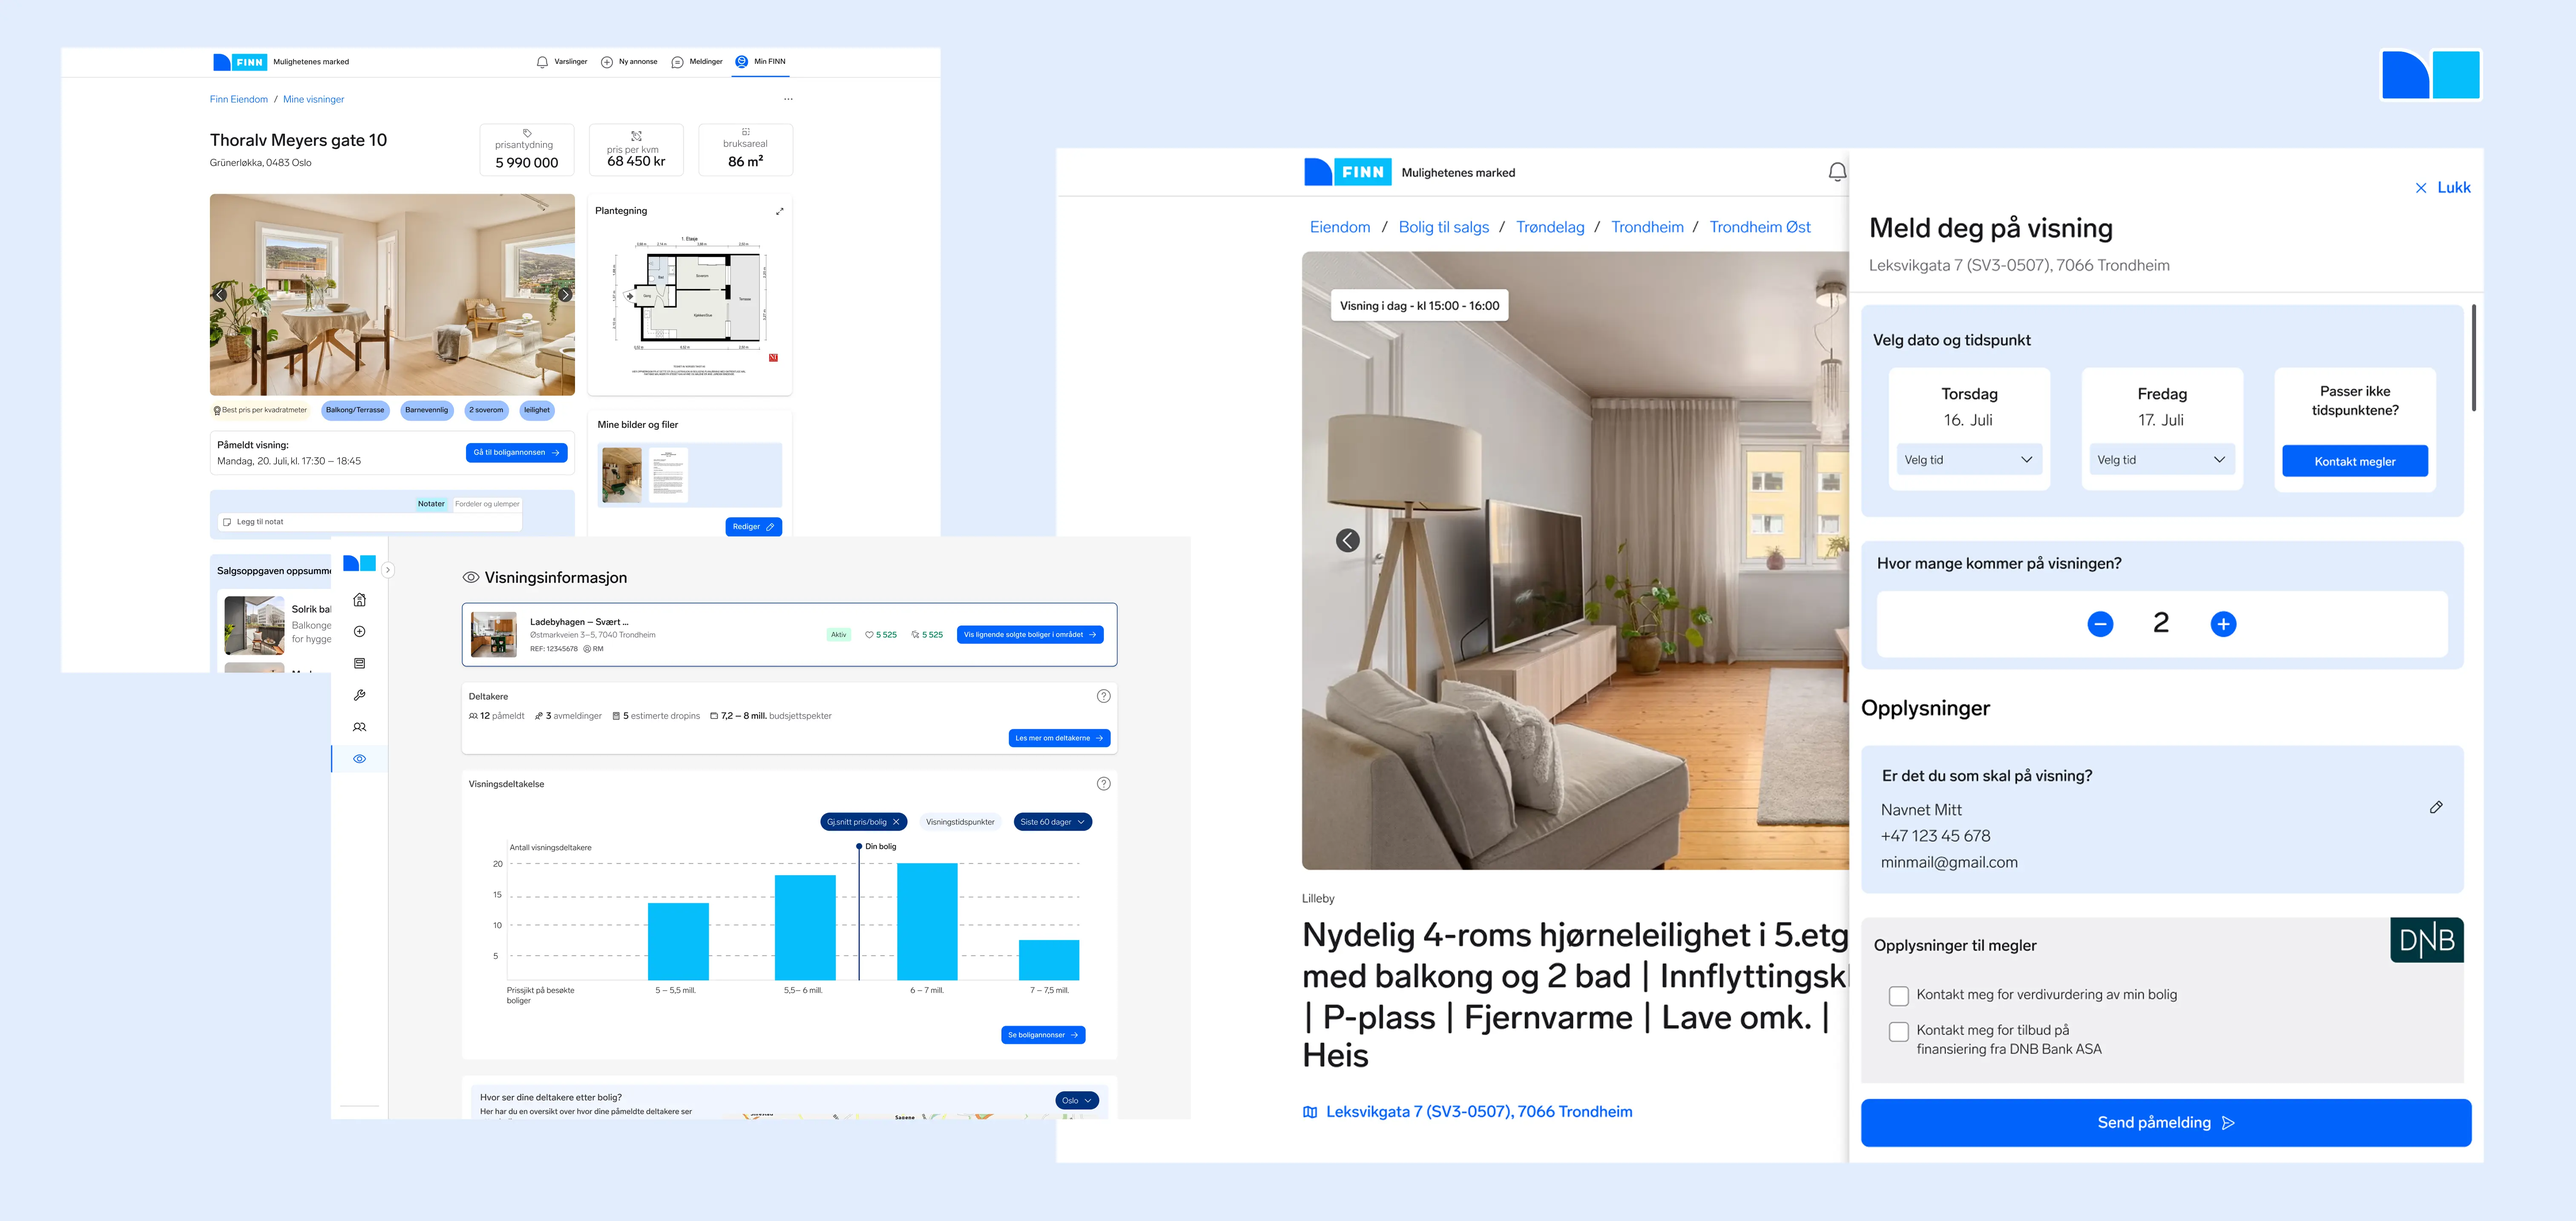
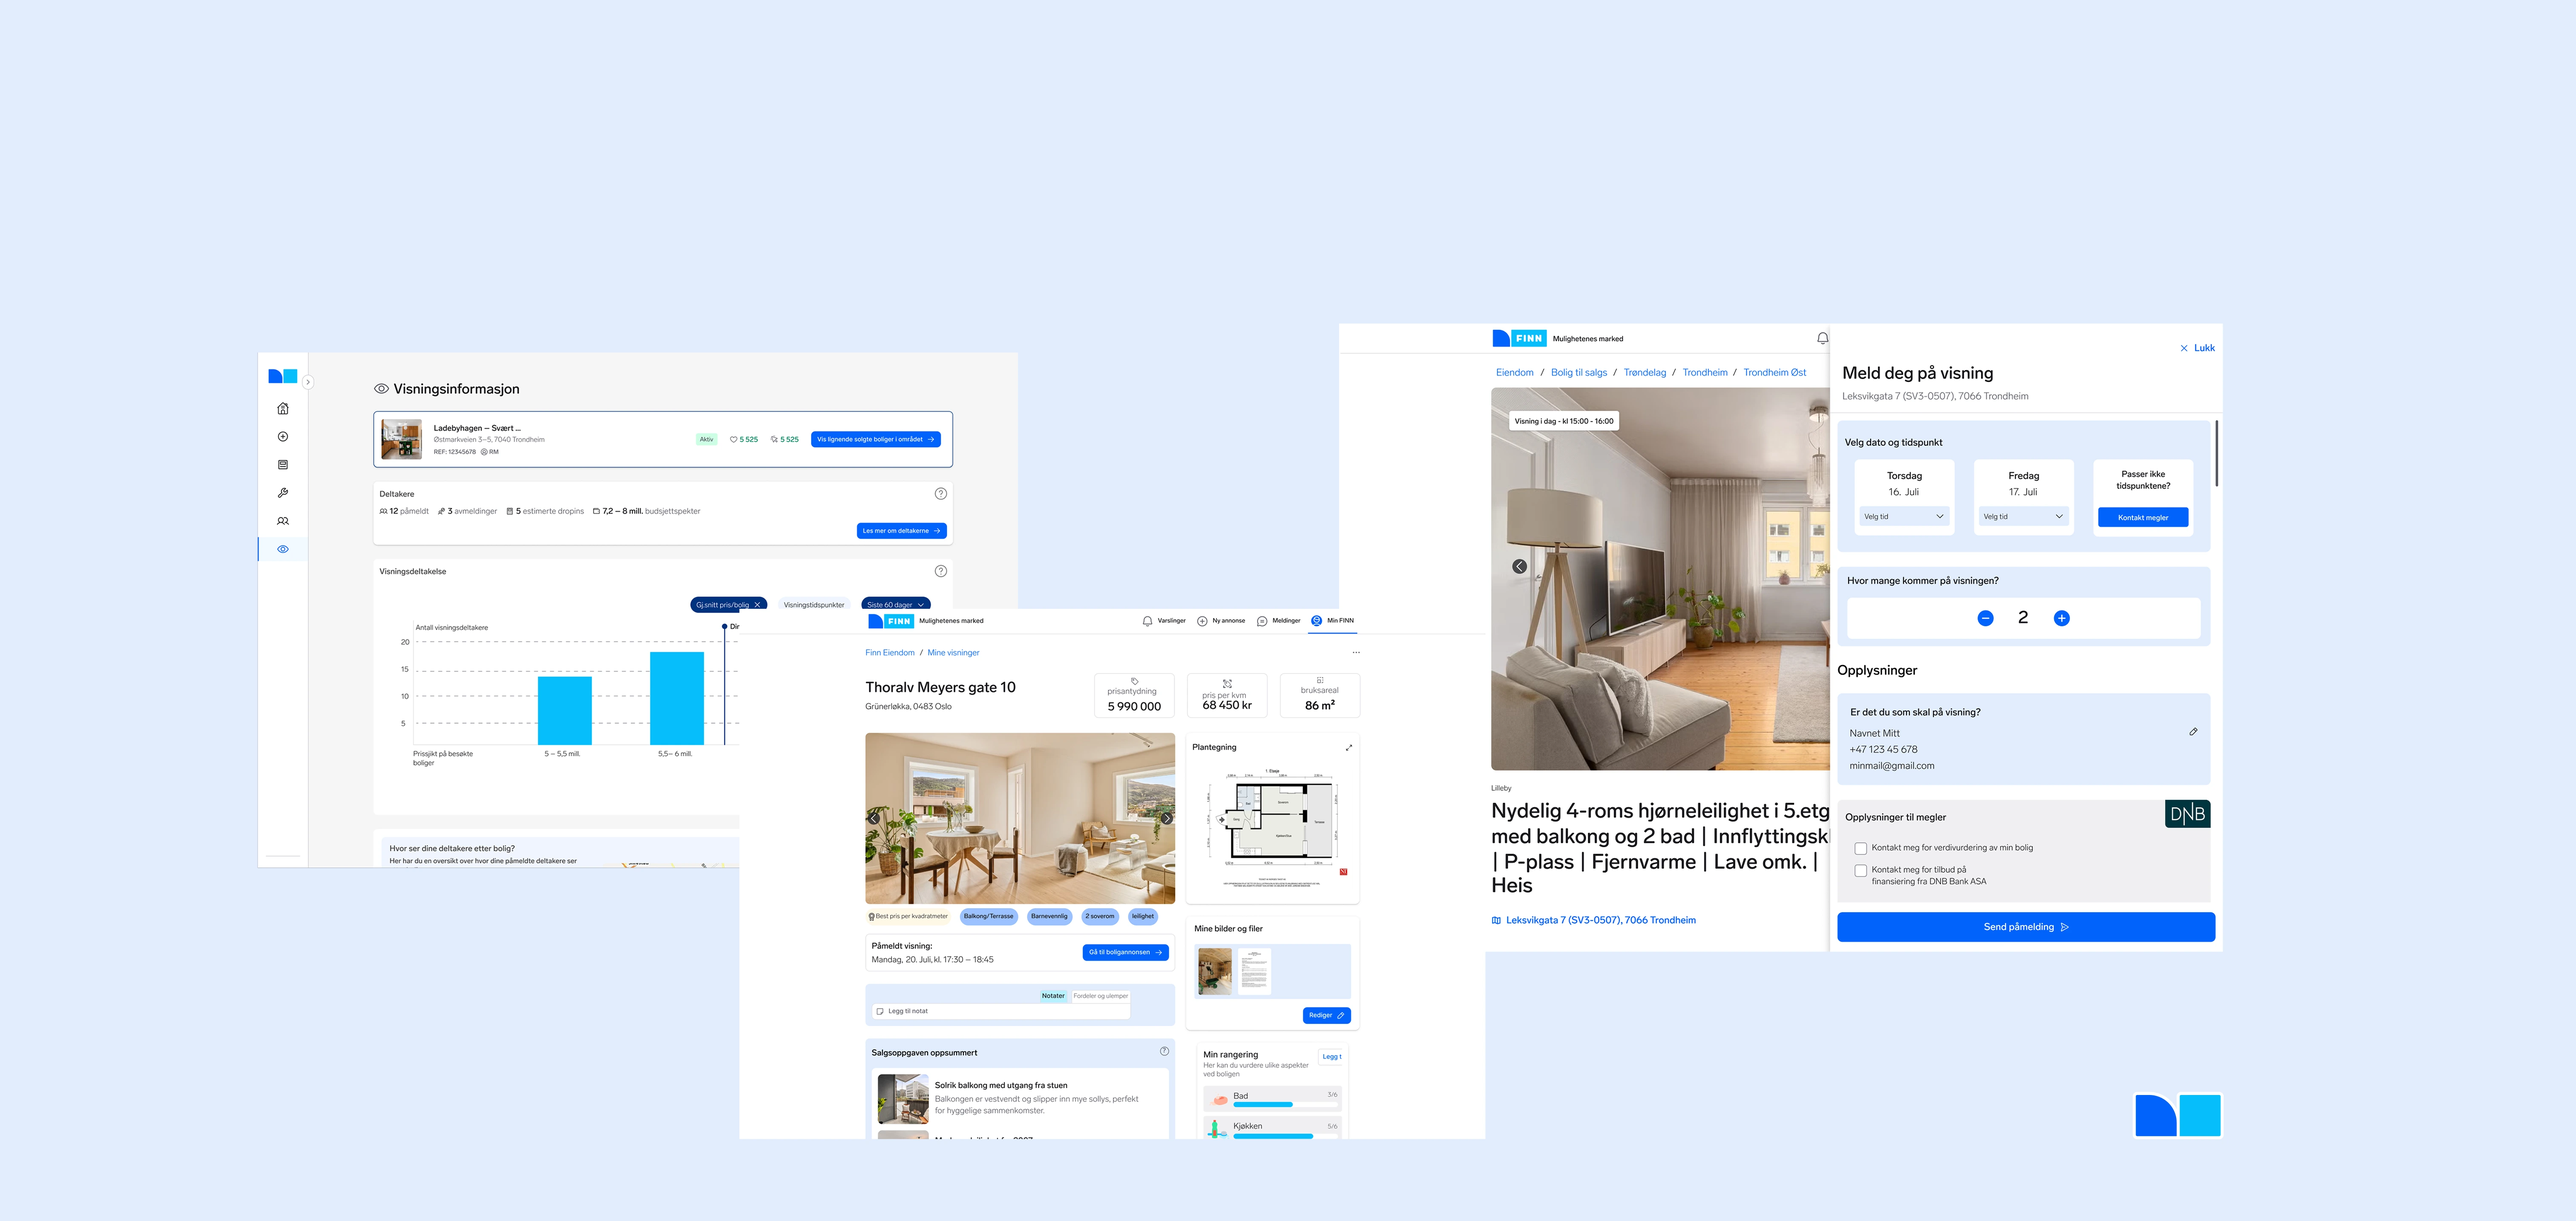
more

diff --git a/app/routes/om-meg.tsx b/app/routes/om-meg.tsx
@@ -9,7 +9,7 @@ export const meta: MetaFunction = () => {
     {
       name: "description",
       content:
-        "Jeg er en positiv og nysgjerrig person som trives best når jeg kan være kreativ, sosial og lære noe nytt.",
+        "Jeg er UX-designer og masterstudent i medie- og interaksjonsdesign ved Universitetet i Bergen.",
     },
   ];
 };
@@ -36,17 +36,29 @@ export default function ProjectsLibaryRoute() {
             >
               <h1 className="heading-large heading-normal-color">Om meg</h1>
               <p className="text-medium">
-                Jeg er en positiv person som trives best når jeg kan være
-                kreativ, sosial og skape noe som betyr noe for andre!
+                Jeg er UX-designer og masterstudent i medie- og
+                interaksjonsdesign ved Universitetet i Bergen.
               </p>
               <p>
-                Jeg tar master i Medie- og Interaksjonsdesign ved UiB, og
-                UX-design gjør jeg fordi jeg virkelig liker det, ikke bare fordi
-                det er studiet mitt. Jeg bruker mye tid i Figma, tester idéer og
-                finner løsninger som faktisk gjør ting enklere for brukerne,
-                ofte mye lenger enn jeg burde. Jeg henter inspirasjon fra små
-                detaljer og hverdagslige situasjoner, og liker å lage design som
-                både fungerer og føles naturlig å bruke.
+                Jeg har alltid likt å lage ting og jobbe visuelt, og det var noe
+                av det som først trakk meg mot design. Etter hvert ble jeg
+                spesielt interessert i hvordan design kan gjøre teknologi
+                enklere å forstå og bruke.
+              </p>
+              <p>
+                Jeg har alltid likt å lage ting og jobbe visuelt, og har vært
+                innom litt av hvert, fra strikking og maling til grafisk design.
+                Da jeg begynte på Medie- og interaksjonsdesign ved UiB, fikk jeg
+                kombinert den kreative siden med interessen min for teknologi og
+                mennesker. Gjennom bacheloren og nå masteren har jeg jobbet med
+                alt fra visuell design og interaksjon til brukerinnsikt,
+                brukertesting og konseptutvikling.
+              </p>
+              <p>
+                Det jeg liker best med UX er punktet der man begynner å se
+                muligheter i det man har lært gjennom brukerinnsikt. Jeg liker å
+                utforske ulike retninger, prøve ut ideer og se hvordan innsikt
+                kan endre løsningen underveis.
               </p>
             </div>
           }
@@ -55,41 +67,18 @@ export default function ProjectsLibaryRoute() {
           altText="A portrait of Stine Knutsen."
         />
 
-        <StandaloneParagraph
-          textSection={
-            <div>
-              <h2 className="text-medium">Min vei inn i interaksjonsdesign</h2>
-              <p>
-                Jeg har alltid vært interessert i grafisk design og visuelle
-                framstillinger, og har utforsket uttrykk som maling, tegning,
-                foto og grafisk design. Jeg har til og med hatt en svært kort
-                keramikkkarriere!
-              </p>
-              <br />
-              <p>
-                Da jeg hørte om studiet i Medie- og Interaksjonsdesign (MIX)
-                gjennom en venninne av søsteren min, visste jeg at dette var
-                riktig for meg. Gjennom bacheloren fikk jeg en dyp forståelse
-                for designprinsipper, brukervennlighet og design med
-                brukerinvolvering, kunnskap jeg nå får videreutvikle på
-                masteren.
-              </p>
-              <br />
-              <p>
-                Min favorittdel av UX-prosessen er konseptualiseringen, der
-                brukerinnsikt åpner for nye løsninger som treffer brukerne. Et
-                eksempel på dette var da jeg jobbet med Sparebanken Norge, der
-                vi endret kurs basert på innsikt og utviklet en løsning som til
-                slutt ble veldig vellykket. Jeg har også kunnskap om HCI og
-                informasjonsvitenskap, som styrker evnen min til å lage
-                intuitive og effektive brukeropplevelser.
-              </p>
-            </div>
-          }
-        />
-
         <Gallery
           images={[
+            {
+              src: "/om-meg/finn-presentasjon.webp",
+              imageText: "Presentasjonen av sommerprosjektet hos FINN.",
+              altText: "",
+            },
+            {
+              src: "/om-meg/finn-teamet.webp",
+              imageText: "Sommerteamet utenfor kontoret hos FINN!",
+              altText: "",
+            },
             {
               src: "/om-meg/innovasjonsdagen.webp",
               imageText:

diff --git a/app/routes/finn-eiendom.tsx b/app/routes/finn-eiendom.tsx
@@ -5,6 +5,7 @@ import ParagraphWithImage from "~/components/project-sections/ParagraphWithImage
 import TwoImages from "~/components/project-sections/TwoImages";
 import { Quote } from "~/components/project-sections/Quote";
 import { StandaloneImage } from "~/components/project-sections/StandaloneImage";
+import { MdOutlineOpenInNew } from "react-icons/md";
 
 export const meta: MetaFunction = () => {
   return [
@@ -32,6 +33,23 @@ export default function ProjectsLibaryRoute() {
                 boligvisninger, samt løsninger for hvordan dette kunne skape
                 verdi for både brukere og meglere.
               </p>
+
+              <a
+                rel="noopener noreferrer"
+                target="_blank"
+                style={{
+                  textDecoration: "underline",
+                  textUnderlineOffset: "4px",
+                  marginTop: "1rem",
+                  display: "flex",
+                  gap: "0.5rem",
+                  alignItems: "center",
+                }}
+                href="https://vend.com/news/building-real-tools-for-real-buyers-inside-our-oslo-summer-internship"
+              >
+                Les mer om internshipet hos Vend (FINN) her
+                <MdOutlineOpenInNew />
+              </a>
             </>
           }
         />

diff --git a/app/routes/barnebank.tsx b/app/routes/barnebank.tsx
@@ -3,6 +3,7 @@ import CoverImage from "~/components/cover-image/CoverImage";
 import StandaloneParagraph from "~/components/project-sections/StandaloneParagraph";
 import ParagraphWithImage from "~/components/project-sections/ParagraphWithImage";
 import { StandaloneImage } from "~/components/project-sections/StandaloneImage";
+import { MdOutlineOpenInNew } from "react-icons/md";
 
 export const meta: MetaFunction = () => {
   return [
@@ -33,6 +34,22 @@ export default function ProjectsLibaryRoute() {
                 utviklere og to UX-designere. Den nye løsningen er nå lansert
                 for bankens kunder.
               </p>
+              <a
+                rel="noopener noreferrer"
+                target="_blank"
+                style={{
+                  textDecoration: "underline",
+                  textUnderlineOffset: "4px",
+                  marginTop: "1rem",
+                  display: "flex",
+                  gap: "0.5rem",
+                  alignItems: "center",
+                }}
+                href="https://www.spv.no/dagligbank/nett-og-mobilbank/barnebank"
+              >
+                Les mer om barnebanken her
+                <MdOutlineOpenInNew />
+              </a>
             </>
           }
         />

diff --git a/app/components/card/ProjectCard.tsx b/app/components/card/ProjectCard.tsx
@@ -1,6 +1,7 @@
 import "./ProjectCard.css";
 import { Link } from "@remix-run/react";
 import ImageWithLoader from "../general/ImageWithLoader";
+import { MdArrowForward } from "react-icons/md";
 
 interface ProjectCardProps {
   imageSrc: string;
@@ -44,7 +45,8 @@ export default function ProjectCard(props: ProjectCardProps) {
       <div className="read-more-outer-container">
         <div className="read-more-container">
           <p className="text-small card-text">Les mer om dette prosjektet</p>
-          <img src="/icons/arrow.svg" alt="" className="card-arrow" />
+          {/* <img src="/icons/arrow.svg" alt="" className="card-arrow" /> */}
+          <MdArrowForward />
         </div>
       </div>
       {/* </Link> */}
